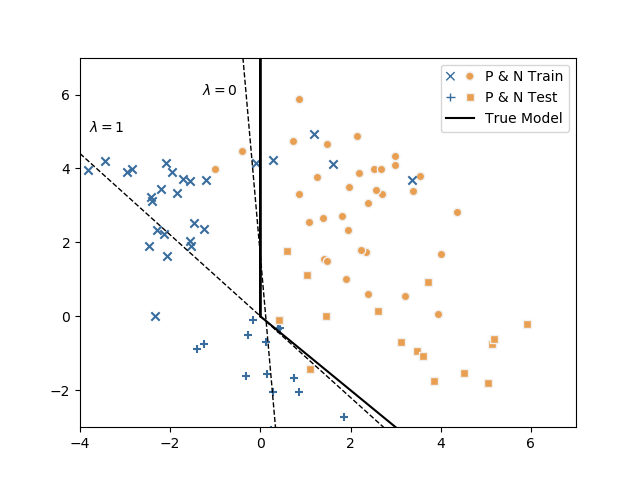
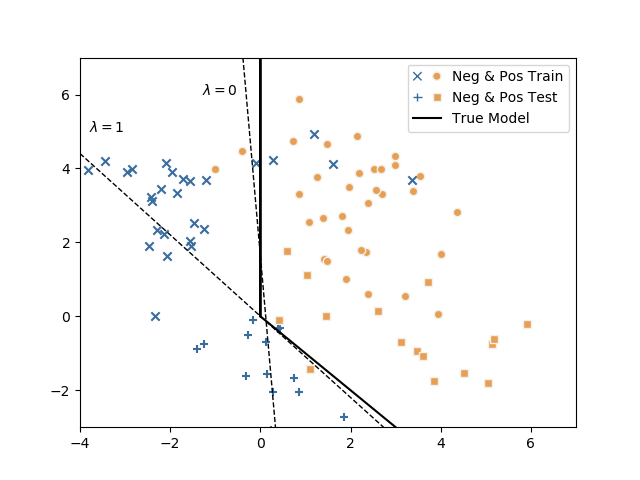
working the polygon probability, with level curves

Changed region(s): [[0.625, 0.125, 0.875, 0.2812]]

diff --git a/utils/get_data.py b/utils/get_data.py
@@ -4,7 +4,8 @@
 import numpy as np
 import math
 import matplotlib.pyplot as plt
-import scipy.spatial #import ConvexHull
+from scipy.spatial import ConvexHull
+from scipy.spatial import Delaunay
 #from sklearn import mixture
 
 def gaussian_mixture(n, means, covs, probs):
@@ -46,53 +47,82 @@ def get_data_sugiyama(n_train, n_test):
 
     return X_train, y_train, X_test, y_test
 
-def get_population_parameters(n_sides, r):
-    V_pyx = np.zeros(shape = (n_sides, 2))
-    mus = [] #np.zeros(shape = (n_sides, 2, 2))
-    covs = [] #np.zeros(shape = (n_sides, 2, 2, 2))
-    for n in range(n_sides):
-        V_pyx[n,:] = [r * math.cos(2*math.pi*n/n_sides), r * math.sin(2*math.pi*n/n_sides)]
-        mu_0 = np.array([(6.0/10) * r * math.cos(2*math.pi*((n+.5)/n_sides)), 
-                    (6.0/10) * r * math.sin(2*math.pi*((n+.5)/n_sides))])
-        mu_1 = np.array([(12.0/10) * r * math.cos(2*math.pi*((n+.5)/n_sides)), 
-                    (12.0/10) * r * math.sin(2*math.pi*((n+.5)/n_sides))])
+def in_hull(p, hull):
+    if not isinstance(hull,Delaunay):
+        hull = Delaunay(hull)
+    return hull.find_simplex(p)>=0
+
+def polygon_probability(X, n_clusters):
+    ngrid = 1000
+    rs = np.array(np.linspace(1e-10, 8, ngrid))
+    hulls = []
+    for n, r in np.ndenumerate(rs):
+        V = vertices_polygon(n_clusters, r)
+        hull = ConvexHull(V)
+        hulls.append(hull)
+    
+    rds = []
+    for c in range(n_clusters):
+        X_c = X[c][0]
+        nx = X_c.shape[0]
+        rxs = np.zeros(shape = (nx, 1))
+        for n in range(nx):
+            rxmin = 100
+            for h in range(ngrid):
+                if in_hull(X_c[n], hulls[n]) == True:
+                    rxmin = rs[h]
+                    break
+            rxs[n] = rxmin
+        rds.append(rxs)
+    return rds
+
+def vertices_polygon(n_clusters, r):
+    V = np.zeros(shape = (n_clusters, 2))
+    for c in range(n_clusters):
+        V[c,:] = [r * math.cos(2*math.pi*c/n_clusters), r * math.sin(2*math.pi*c/n_clusters)]
+    return V
+
+def get_population_parameters(n_clusters, r):
+    mus = []
+    covs = []
+    V = vertices_polygon(n_clusters, r)
+    for c in range(n_clusters):
+        mu_0 = np.array([(6.0/10) * r * math.cos(2*math.pi*((c+.5)/n_clusters)), 
+                    (6.0/10) * r * math.sin(2*math.pi*((c+.5)/n_clusters))])
+        mu_1 = np.array([(12.0/10) * r * math.cos(2*math.pi*((c+.5)/n_clusters)), 
+                    (12.0/10) * r * math.sin(2*math.pi*((c+.5)/n_clusters))])
         mus.append([mu_0, mu_1])
     
-    for n in range(n_sides):
-        edge = V_pyx[int(math.fmod(n+1,n_sides)),:]-V_pyx[n,:]
+    for c in range(n_clusters):
+        edge = V[int(math.fmod(c+1, n_clusters)),:]-V[c,:]
         edge = np.reshape(edge, (2, 1))
-        mu_0 = mus[n][0]
+        mu_0 = mus[c][0]
         mu_0 = np.reshape(mu_0, (2,1))
         cov_0 = (1.0/16) * np.matmul(mu_0, mu_0.T) + (1.0/32) * np.matmul(edge, edge.T)
         cov_1 = (1.0/16) * np.matmul(mu_0, mu_0.T) + (1.0/32) * np.matmul(edge, edge.T)
         covs.append([cov_0, cov_1])
-    return V_pyx, mus, covs
+    return V, mus, covs
 
 def get_data_experiment(n_clusters, n_samples, r):
-    V_pyx, mus, covs = get_population_parameters(n_sides=n_clusters, r=r)
+    V, mus, covs = get_population_parameters(n_clusters, r)
     label_probs = np.array([.5, .5])
 
-    n_cluster = n_samples/n_clusters
-    X_n = np.zeros(shape = (n_cluster, 3))
     X = []
-    for n in range(n_clusters):
-        #print(type(covs[n])); print(len(covs[n])); print(covs[n][0].shape)
-        X_n = gaussian_mixture(n_cluster, np.array(mus[n]), np.array([covs[n][0], covs[n][1]]), label_probs)
-        X_cluster = np.repeat(n, n_cluster)
-        X.append([X_n, X_cluster])
-    return V_pyx, mus, covs, X
+    n_cluster = n_samples/n_clusters
+    X_c = np.zeros(shape = (n_cluster, 3))
+    for c in range(n_clusters):
+        X_c = gaussian_mixture(n_cluster, np.array(mus[c]), 
+            np.array([covs[c][0], covs[c][1]]), label_probs)
+        X_cluster = np.repeat(c, n_cluster)
+        X.append([X_c, X_cluster])
+    return V, mus, covs, X
 
 def plot_polygon(V, mus, X, n_clusters):
-    #plot convex hull
-    hull = scipy.spatial.ConvexHull(V)
+    hull = ConvexHull(V)
     for simplex in hull.simplices:
         plt.plot(V[simplex,0], V[simplex,1], 'k-')
     
     #plot data
-    for n in range(n_clusters):
-        mu_0, mu_1 = mus[n][0], mus[n][1]
-        plt.plot(mu_0[0], mu_0[1], 'o')
-        plt.plot(mu_1[0], mu_1[1], 's')
     for n in range(n_clusters):
         X_n = X[n][0]
         plt.scatter(X_n[:,0], X_n[:,1])
@@ -100,12 +130,12 @@ def plot_polygon(V, mus, X, n_clusters):
     plt.show()
 
 def main():
-    #import utils.get_data as data
-    #import utils.plots as plots
     n_clusters, r = 7, 4
     n_samples = 500
-    V_pyx, mus, _, X = get_data_experiment(n_clusters, n_samples, r)
-    plot_polygon(V_pyx, mus, X, n_clusters)
+    V, mus, _, X = get_data_experiment(n_clusters, n_samples, r)
+    #plot_polygon(V, mus, X, n_clusters)
+
+    #ver = polygon_probability(X, n_clusters)
 
 if __name__ == '__main__':
     main()

diff --git a/utils/plots.py b/utils/plots.py
@@ -166,5 +166,5 @@ def graph_data_sugiyama2(config, data, model0, path):
     PC_train.set_transform(mtransforms.IdentityTransform())
     PC_test = mcol.PathCollection(paths_test, sizes_test, transOffset = ax.transData, facecolors = colors, edgecolors = edgecolors_test)
     PC_test.set_transform(mtransforms.IdentityTransform()) #+paths_test
-    plt.legend([PC_train, PC_test, line], ['P & N Train','P & N Test', 'True Model'], handler_map = {type(PC_train) : HandlerMultiPathCollection()}, scatterpoints = len(paths_train), scatteryoffsets = [.5], handlelength = len(paths_train))
+    plt.legend([PC_train, PC_test, line], ['Neg & Pos Train','Neg & Pos Test', 'True Model'], handler_map = {type(PC_train) : HandlerMultiPathCollection()}, scatterpoints = len(paths_train), scatteryoffsets = [.5], handlelength = len(paths_train))
     plt.savefig(path)

diff --git a/exp_lin_reg.py b/exp_lin_reg.py
@@ -61,6 +61,5 @@ def main():
     plots.graph_data_sugiyama1(config, data, path = root+'images/sugiyama1.png')
     plots.graph_data_sugiyama2(config, data, model0 = model, path = root+'images/sugiyama2.png')
 
-
 if __name__ == '__main__':
     main()
